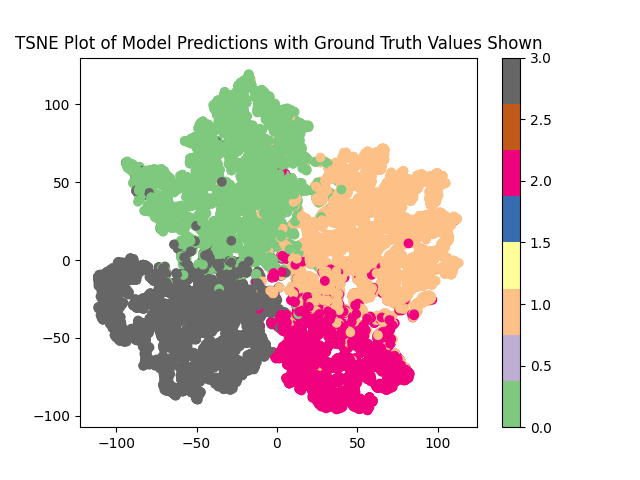
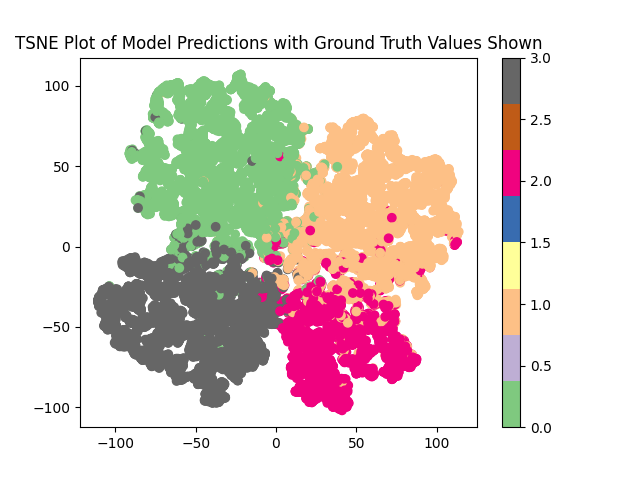
Implement Data saving and loading functionality

diff --git a/recognition/s47400874_musae_gnn/src/dataset.py b/recognition/s47400874_musae_gnn/src/dataset.py
@@ -3,7 +3,6 @@ import torch
 import encoders
 
 from torch_geometric.data import Data
-from torch_geometric.transforms import RandomNodeSplit
 
 DATA_PATH = ".."
 DATA_SAVE_PATH = "../out/dataset"
@@ -102,6 +101,11 @@ def load_csv_data(root, device = None, num_val = 0.1, num_test = 0.2):
 
 	Returns the preprocessed dataset for feeding to PyTorch
 	"""
+	try:
+		data = torch.load(DATA_SAVE_PATH, weights_only = False)
+		return data
+	except FileNotFoundError:
+		print("Preprocessing Data:") 
 	
 	# Create encoders
 	name_encoder = encoders.NameEncoder(
@@ -132,13 +136,5 @@ def load_csv_data(root, device = None, num_val = 0.1, num_test = 0.2):
 	# Create dataset
 	data = Data(x = node_xs, edge_index = edges, y = node_ys)
 
-	# Split into training, validation and testing nodes
-	transform = RandomNodeSplit(num_val = num_val, num_test = num_test)
-	
-	return transform(data)
-
-
-def save_preprocessed_data(data, path):
-	"""
-	"""
-	torch.save(data, path)
+	torch.save(data, DATA_SAVE_PATH)
+	return data

diff --git a/recognition/s47400874_musae_gnn/src/train.py b/recognition/s47400874_musae_gnn/src/train.py
@@ -1,6 +1,7 @@
 import torch
 from modules import GCN
 from dataset import load_csv_data, DATA_PATH
+from torch_geometric.transforms import RandomNodeSplit
 
 NUM_HIDDEN_CHANNELS = 150
 NUM_EPOCHS = 100
@@ -57,8 +58,12 @@ if __name__ == "__main__":
 	device = torch.device("cuda" if torch.cuda.is_available() else "cpu")
 
 	# Extract data
-	data = load_csv_data(DATA_PATH, num_test = 0.3)
-
+	csv_data = load_csv_data(DATA_PATH)
+	
+	# Split into training, validation and testing nodes
+	transform = RandomNodeSplit(num_val = 0.1, num_test = 0.5)
+	data = transform(csv_data)
+	
 	# Set up model, optimizer and criterion
 	model = GCN(data.num_features, data.y.size()[1], NUM_HIDDEN_CHANNELS)
 	optimizer = torch.optim.Adam(model.parameters(), lr = 0.01, weight_decay = 5e-4)
